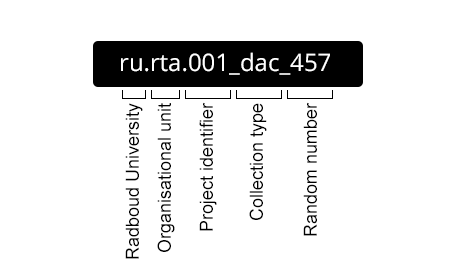
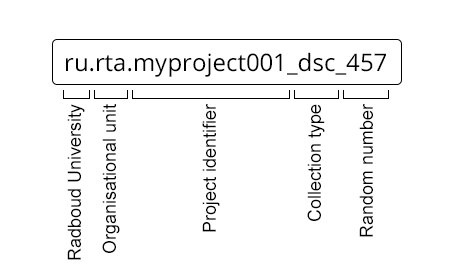
YodaDrive and save button
In this commmit I have changed the following in accordance with Jira issue 3508:
- Updated YodaDrive manual with new collection identifier (including 2 new images)
- updated quickstart with 'save changes' in stead of 'update collection'

diff --git a/doc/help/user-manual/transfer-data/YodaDrive.rst b/doc/help/user-manual/transfer-data/YodaDrive.rst
@@ -37,13 +37,15 @@ Install YodaDrive
 
 5. Open the folder of your collection in the Yoda Network Drive.
    
-   The name of the folder of your collection is based on the collection identifier. This identifier can be found in the black collection identifier tag, located above the title of your collection in the RDR
+   The name of the folder of your collection is based on the *collection identifier*. This identifier can be found underneath the title and abstract of your collection.
    
-   The collection identifier consists of the following parts:
+   .. figure:: images/Yoda_collection_identifier_place.png
+   
+   The *collection identifier* consists of the following parts:
    
    .. figure:: images/Yoda_collection_identifier.png
    
-   These parts correspond to the folder structure in your Yoda Network Drive (i.e. first your organizational unit and then the last part of the collection identifier). 
+   These parts correspond to the folder structure in your Yoda Network Drive (i.e. first your organizational unit and then the last part of the *collection identifier*). 
 
 6. You are currently in the folder that corresponds to the collection you want to work in. 
    You can move/open/edit/delete/etc. files in this folder just as you would do in ‘regular’ folders in Windows Explorer.

diff --git a/doc/help/quickstart.rst b/doc/help/quickstart.rst
@@ -8,7 +8,7 @@ researchers using the ${repositoryName} for the first time. The data repository 
 which can be seen as digital archiving boxes. In this guide we will show you how to request and work with such a collection.
 
 **Step 1: Create your ${repositoryName} profile**
------------------------------------
+-------------------------------------------------
 Login to the ${repositoryDescription} to create your user profile.
 
 **Note**: If you have not logged in at least once, you cannot request a collection.
@@ -42,7 +42,7 @@ We recommend that you add additional information to your collection before worki
 4. Optionally, add colleagues to your collection. You can only add colleagues who have an ${repositoryName} profile to your collection (see step 1). 
    Your colleagues can have different roles (manager, contributor or viewer) with different rights. 
    More information can be found :ref:`here <glossary>`.
-5. Click on *update collection* to save the changes
+5. Click on *Save changes* to save the changes
 
 For more extensive help, see :ref:`here <edit-your-collection-details>`. 
 
